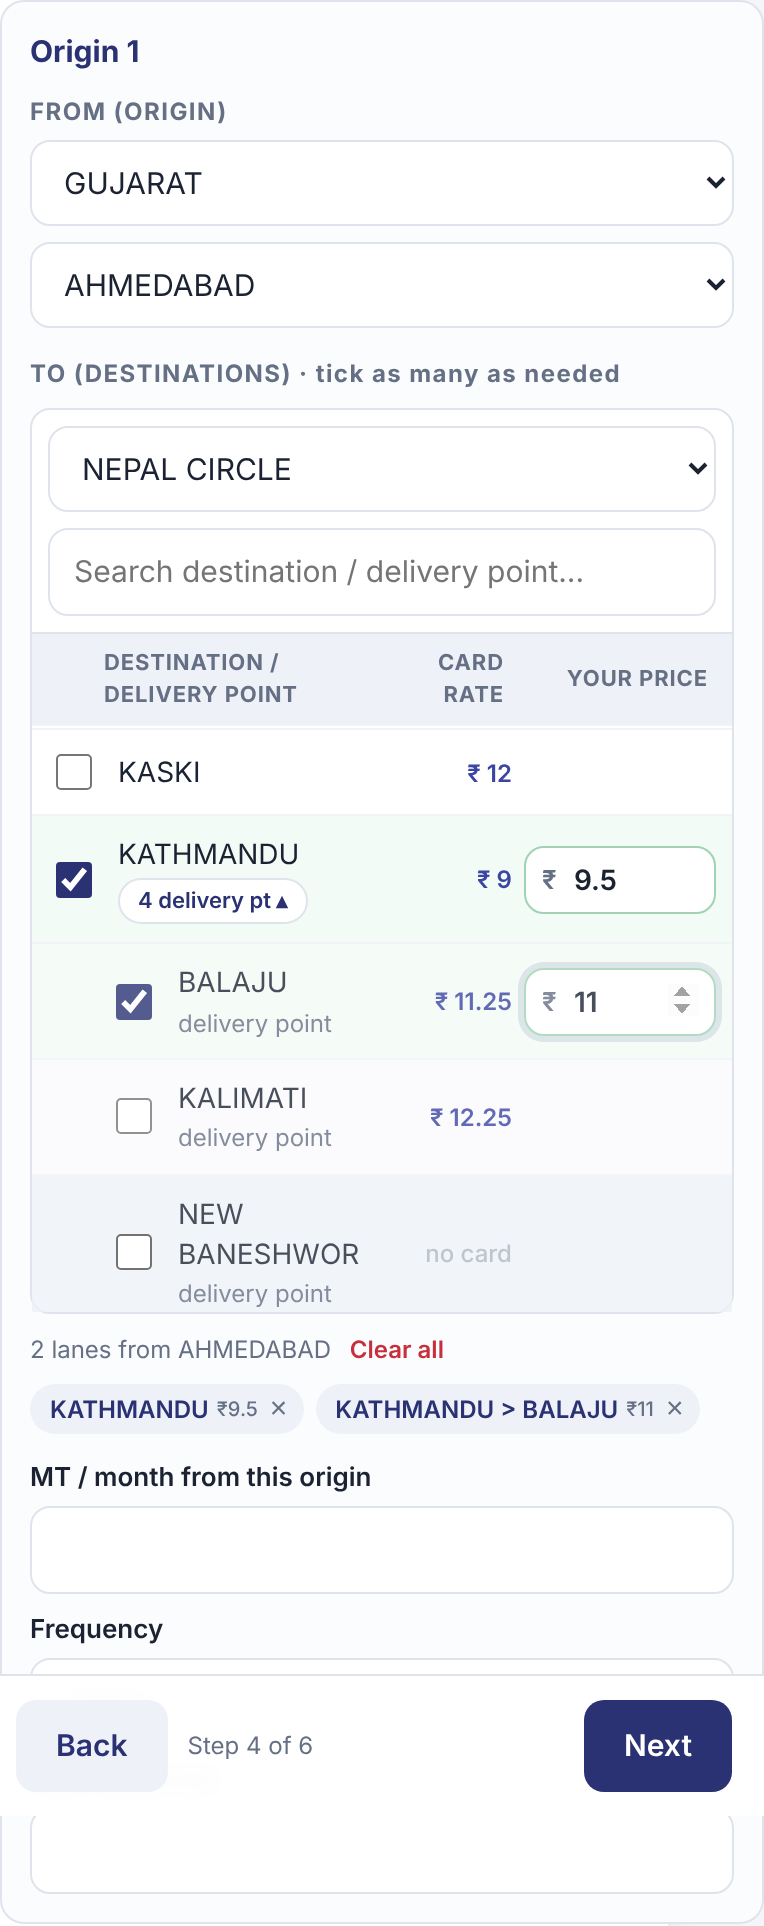
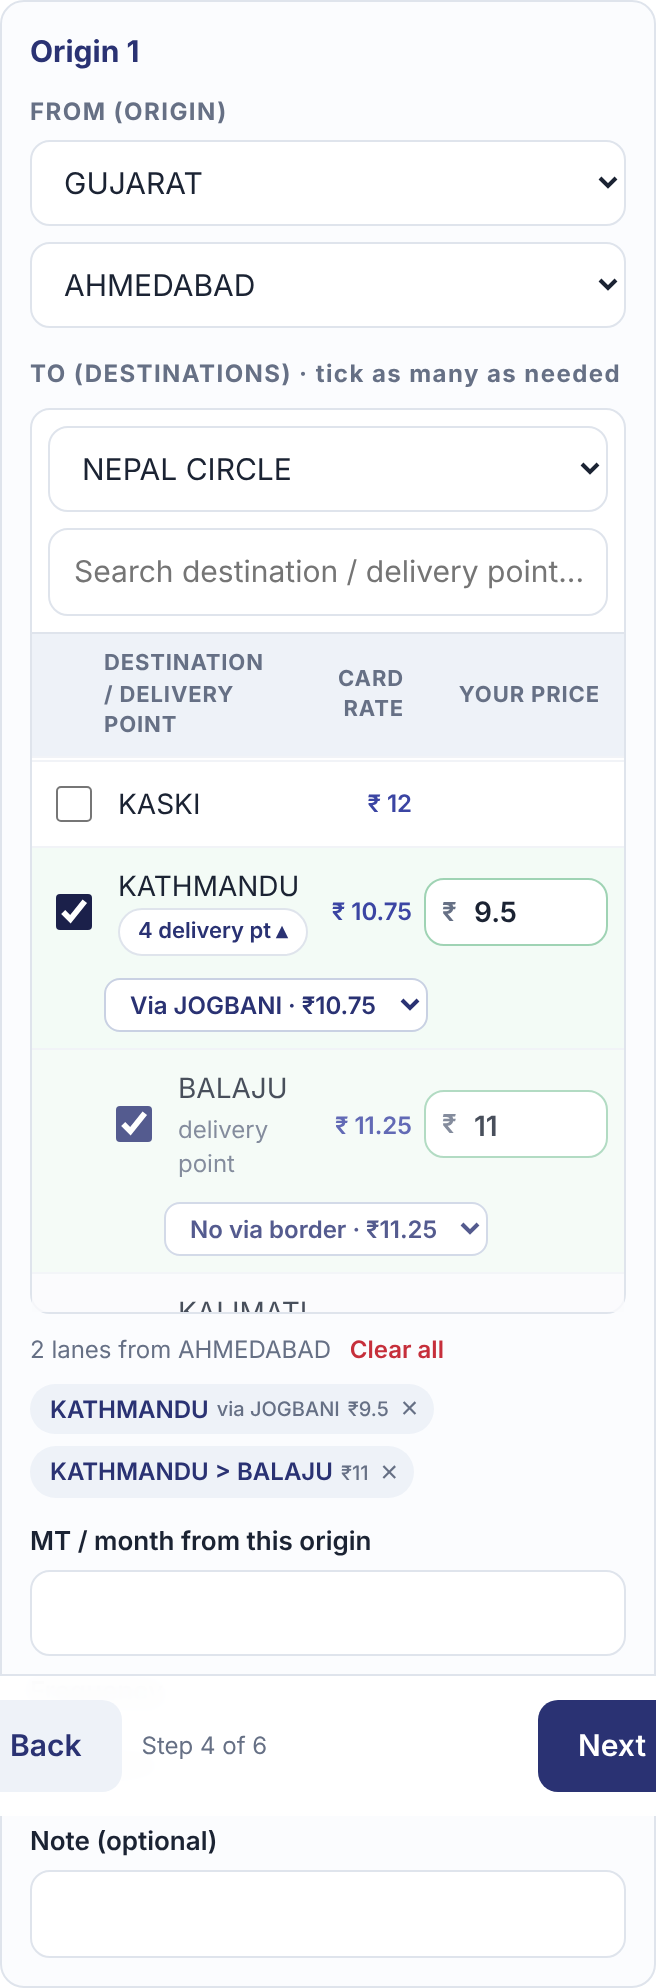
Via border in card rate lookup; mobile layout fixes
Claude-Session: https://claude.ai/code/session_0188fLwyFQDVejQyQDjEWZnv

diff --git a/customer-visit-form/Index.html b/customer-visit-form/Index.html
@@ -43,6 +43,7 @@
   .tag { display: inline-block; font-size: 11px; font-weight: 700; letter-spacing: .1em; color: var(--accent); margin-bottom: 2px; }
   .grid { display: grid; grid-template-columns: 1fr 1fr; gap: 12px 14px; }
   .full { grid-column: 1 / -1; }
+  .grid > * { min-width: 0; }
   @media (max-width: 560px) { .grid { grid-template-columns: 1fr; } .step .t { display: none; } .step.active .t { display: inline; } }
 
   label.f { display: block; font-size: 13px; font-weight: 600; margin-bottom: 5px; }
@@ -94,7 +95,7 @@
 
   .done { text-align: center; padding: 36px 20px; }
   .done .ic { width: 64px; height: 64px; border-radius: 50%; background: #e6f4ec; color: var(--ok); display: grid; place-items: center; margin: 0 auto 12px; font-size: 32px; }
-  .toast { position: fixed; left: 50%; bottom: 84px; transform: translateX(-50%); background: var(--ink); color: #fff; padding: 10px 16px; border-radius: 10px; font-size: 13px; display: none; z-index: 20; max-width: 90%; }
+  .toast { pointer-events: none; position: fixed; left: 50%; bottom: 84px; transform: translateX(-50%); background: var(--ink); color: #fff; padding: 10px 16px; border-radius: 10px; font-size: 13px; display: none; z-index: 20; max-width: 90%; }
   .hidden { display: none !important; }
 </style>
 <style>
@@ -119,6 +120,7 @@
   .opt small { white-space: nowrap; display: flex; align-items: center; gap: 6px; }
   .opt.on { background: #f3fbf6; }
   .opt.on { background: #f3fbf6; }
+  .opt label > span { min-width: 0; }
   .opt span small { display: block; white-space: normal; margin-top: 1px; }
   .opt em { font-style: normal; flex: 0 0 76px; text-align: right; font-size: 13px; font-weight: 600; color: var(--navy-2); }
   .opt em.pc { flex: 0 0 112px; }
@@ -128,9 +130,14 @@
   .opt.lh em { color: var(--muted); font-size: 11px; font-weight: 700; }
   .opt.lh:hover { background: var(--soft); }
   .rowprice { display: block; width: 112px; }
+  .opt { flex-wrap: wrap; }
+  .viarow { flex: 0 0 100%; padding: 0 0 8px 28px; margin-top: -4px; }
+  .opt.sub .viarow { padding-left: 28px; }
+  .opt select.via { display: block; width: auto; max-width: 100%; padding: 4px 8px; font-size: 12px; border-radius: 8px; border-color: #c9d1e3; color: var(--navy); font-weight: 600; }
   .opt .rowprice input { width: 100%; height: 34px; padding: 6px 8px 6px 24px; font-size: 14px; border-color: #9fd3b4; background: #fff; }
   .rowprice span { left: 9px; font-size: 13px; }
-  @media (max-width: 420px) { .opt em { flex-basis: 62px; font-size: 12px; } .opt em.pc, .rowprice { flex-basis: 96px; width: 96px; } .opt { gap: 6px; padding: 0 8px; } .opt.lh span { padding-left: 24px; } }
+  @media (max-width: 560px) { .card { padding: 18px 14px; } }
+  @media (max-width: 420px) { .opt em { flex-basis: 58px; font-size: 12px; } .opt em.pc, .rowprice { flex-basis: 92px; width: 92px; } .opt { gap: 6px; padding: 0 8px; } .opt.lh span { padding-left: 24px; } }
   .picker .bar2 { display: grid; grid-template-columns: 1fr 1fr; gap: 8px; padding: 8px; }
   @media (max-width: 560px) { .picker .bar2 { grid-template-columns: 1fr; } }
   .addstop { border: 0; background: none; color: var(--navy-2); font: inherit; font-size: 13px; font-weight: 700; cursor: pointer; padding: 6px 0; }
@@ -295,10 +302,26 @@ function addDest(i, it) {
 }
 /** Card rate: delivery point picked = origin + delivery point, else origin + destination (same as cardKey_ in WebApp.gs). */
 function cardKey(o, dest, dp) { var u = function (v) { return String(v || '').trim().toUpperCase(); }; return u(dp) ? 'P|' + u(o) + '|' + u(dp) : 'D|' + u(o) + '|' + u(dest); }
-function cardOf(i, it) {
-  var o = flows[i].origin.place; if (!o || !it.place || !M.card) return '';
-  var v = M.card[cardKey(o, it.place, it.dp)]; return v == null ? '' : v;
+/** { via: rate } for a lane ('' = no via border), or null. */
+function cardMap(i, it) {
+  var o = flows[i].origin.place; if (!o || !it.place || !M.card) return null;
+  return M.card[cardKey(o, it.place, it.dp)] || null;
 }
+/** Picked border's rate, else the rate with no border, else the only border (same order as cardRateOf_ in WebApp.gs). */
+function cardPick(c, via) {
+  if (!c) return '';
+  var v = Object.keys(c);
+  if (via && via in c) return c[via];
+  if ('' in c) return c[''];
+  return v.length === 1 ? c[v[0]] : '';
+}
+function cardText(c, via, ticked) {
+  if (!c) return '';
+  var r = cardPick(c, via); if (r !== '' && (ticked || Object.keys(c).length === 1)) return '&#8377; ' + esc(r);
+  var all = Object.keys(c).map(function (k) { return c[k]; }), lo = Math.min.apply(null, all), hi = Math.max.apply(null, all);
+  return lo === hi ? '&#8377; ' + esc(lo) : '&#8377; ' + esc(lo) + '&ndash;' + esc(hi);
+}
+function setVia(i, k, v) { flows[i].dests[k].via = v; renderList(i); renderChips(i); save(); }
 function toggleIdx(i, k) {
   var it = (LIST[i] || [])[k]; if (!it) return;
   if (hasDest(i, it)) flows[i].dests = flows[i].dests.filter(function (d) { return !sameD(d, it); });
@@ -353,16 +376,22 @@ function renderList(i) {
       : it.dp ? (it.sub ? 'delivery point' : esc(it.zone))
       : (n && p.zone && !p.q ? '<button type="button" class="more" onclick="toggleOpen(' + i + ',' + k + ')">' + n + ' delivery pt ' + (p.open && p.open[it.place] ? '&#9652;' : '&#9662;') + '</button>'
         : (p.zone ? (n ? n + ' delivery pt' : '') : esc(it.zone)));
-    var c = cardOf(i, it), card = '<em class="cr' + (c === '' ? ' na' : '') + '">' + (c === '' ? (it.place && hasO ? 'no card' : '&ndash;') : '&#8377; ' + esc(c)) + '</em>';
+    var cm = cardMap(i, it), dk = on ? destIdx(i, it) : -1, via = on ? flows[i].dests[dk].via || '' : '';
+    var c = cardText(cm, via, on), card = '<em class="cr' + (c === '' ? ' na' : '') + '">' + (c === '' ? (it.place && hasO ? 'no card' : '&ndash;') : c) + '</em>';
+    var vias = cm ? Object.keys(cm).filter(function (v) { return v; }).sort() : [];
+    var viaRow = '';
+    if (on && vias.length && (vias.length > 1 || '' in cm)) {   // card rate changes with the border: pick it here
+      viaRow = '<div class="viarow"><select class="via" onchange="setVia(' + i + ',' + dk + ',this.value)"><option value="">' + ('' in cm ? 'No via border &middot; &#8377;' + esc(cm['']) : 'Via border?') + '</option>' +
+        vias.map(function (v) { return '<option value="' + esc(v) + '"' + (v === via ? ' selected' : '') + '>Via ' + esc(v) + ' &middot; &#8377;' + esc(cm[v]) + '</option>'; }).join('') + '</select></div>';
+    } else if (on && vias.length === 1) meta += '<small>via ' + esc(vias[0]) + '</small>';
     var price = '<em class="pc">';
     if (on) {
-      var dk = destIdx(i, it);
       price += '<span class="pre rowprice"><span>&#8377;</span><input type="number" inputmode="decimal" min="0" step="any" placeholder="Price" data-pk="' + i + '-' + dk +
         '" value="' + esc(flows[i].dests[dk].price || '') + '" oninput="setPrice(' + i + ',' + dk + ',this.value)"></span>';
     }
     price += '</em>';
     return '<div class="opt' + (on ? ' on' : '') + (it.place ? '' : ' zone') + (it.sub ? ' sub' : '') + '"><label><input type="checkbox"' + (on ? ' checked' : '') +
-      ' onchange="toggleIdx(' + i + ',' + k + ')"><span>' + label + (meta ? '<small>' + meta + '</small>' : '') + '</span></label>' + card + price + '</div>';
+      ' onchange="toggleIdx(' + i + ',' + k + ')"><span>' + label + (meta ? '<small>' + meta + '</small>' : '') + '</span></label>' + card + price + viaRow + '</div>';
   }).join('') : '<div class="opt"><span class="hint" style="margin:0">No match</span></div>';
 }
 /** Compact list of what is ticked (price is typed in the row above). */
@@ -371,7 +400,7 @@ function renderChips(i) {
   var ds = flows[i].dests;
   el.innerHTML = ds.length ? '<div class="cnt">' + ds.length + ' lane' + (ds.length > 1 ? 's' : '') + ' from ' + esc(originLabel(i)) + ' <button class="clear" onclick="clearDests(' + i + ')">Clear all</button></div>' +
     '<div class="chips">' + ds.map(function (d, k) {
-      return '<span class="chip">' + esc(placeName(d)) + (d.price ? ' <small>&#8377;' + esc(d.price) + '</small>' : '') +
+      return '<span class="chip">' + esc(placeName(d)) + (d.via ? ' <small>via ' + esc(d.via) + '</small>' : '') + (d.price ? ' <small>&#8377;' + esc(d.price) + '</small>' : '') +
         '<button title="Remove" onclick="removeChip(' + i + ',' + k + ')">&times;</button></span>';
     }).join('') + '</div>' : '';
 }

diff --git a/customer-visit-form/Approve.html b/customer-visit-form/Approve.html
@@ -94,7 +94,7 @@
 
   .done { text-align: center; padding: 36px 20px; }
   .done .ic { width: 64px; height: 64px; border-radius: 50%; background: #e6f4ec; color: var(--ok); display: grid; place-items: center; margin: 0 auto 12px; font-size: 32px; }
-  .toast { position: fixed; left: 50%; bottom: 84px; transform: translateX(-50%); background: var(--ink); color: #fff; padding: 10px 16px; border-radius: 10px; font-size: 13px; display: none; z-index: 20; max-width: 90%; }
+  .toast { pointer-events: none; position: fixed; left: 50%; bottom: 84px; transform: translateX(-50%); background: var(--ink); color: #fff; padding: 10px 16px; border-radius: 10px; font-size: 13px; display: none; z-index: 20; max-width: 90%; }
   .hidden { display: none !important; }
 </style>
 
@@ -210,7 +210,7 @@ function render() {
     B.lanes.map(function (l, k) {
       var d = DEC[k];
       return '<tr class="' + (d === 'APPROVED' ? 'ya' : d === 'REJECTED' ? 'yr' : '') + '" id="lr' + k + '"><td><b>' + esc(l.o) + ' &rarr; ' + esc(l.d) + (l.dp ? ' &rsaquo; ' + esc(l.dp) : '') + '</b>' +
-        '<small>' + esc(l.dz) + (l.mt ? ' &middot; ' + esc(l.mt) + ' MT/mo' : '') + '</small></td>' +
+        '<small>' + esc(l.dz) + (l.via ? ' &middot; via ' + esc(l.via) : '') + (l.mt ? ' &middot; ' + esc(l.mt) + ' MT/mo' : '') + '</small></td>' +
         '<td class="n" data-l="Card rate">' + money(l.card) + '</td><td class="n sg" data-l="Field rep">' + money(l.suggested) + '</td>' +
         (hasOther ? '<td class="n" data-l="' + esc(otherShort) + '">' + (l.otherDec ? '<span class="dot ' + esc(l.otherDec) + '"></span>' : '') + money(l.otherRate) + '</td>' : '') +
         '<td class="n ip" data-l="Approved price"><div class="pre lr-i"><span>&#8377;</span><input class="lrate" data-k="' + k + '" type="number" inputmode="decimal" min="0" step="any" placeholder="Price" value="' + esc(l.rate) + '"></div></td>' +

diff --git a/customer-visit-form/Admin.html b/customer-visit-form/Admin.html
@@ -94,7 +94,7 @@
 
   .done { text-align: center; padding: 36px 20px; }
   .done .ic { width: 64px; height: 64px; border-radius: 50%; background: #e6f4ec; color: var(--ok); display: grid; place-items: center; margin: 0 auto 12px; font-size: 32px; }
-  .toast { position: fixed; left: 50%; bottom: 84px; transform: translateX(-50%); background: var(--ink); color: #fff; padding: 10px 16px; border-radius: 10px; font-size: 13px; display: none; z-index: 20; max-width: 90%; }
+  .toast { pointer-events: none; position: fixed; left: 50%; bottom: 84px; transform: translateX(-50%); background: var(--ink); color: #fff; padding: 10px 16px; border-radius: 10px; font-size: 13px; display: none; z-index: 20; max-width: 90%; }
   .hidden { display: none !important; }
 </style>
 <style>

diff --git a/customer-visit-form/SETUP_STEPS.md b/customer-visit-form/SETUP_STEPS.md
@@ -70,7 +70,7 @@ Code badalne ke baad hamesha: **Deploy > Manage deployments > pencil > Version: 
 
 ## Kya hota hai
 1. Field rep form bharta hai (zones / origin / destination / delivery point GR PNL data master se, unique). List table jaisi hai: **Destination / delivery point | Card rate | Your price**. Har destination aur har delivery point alag se tick / untick hota hai (har ek apni lane). Tick karte hi usi line me price box aata hai.
-2. **Card rate** GR PNL master ke CARD RATE column se: delivery point chuna = origin + delivery point, warna origin + destination. Ek lane ke kai GR hon to sabse naya GR DT wala rate, barabar ho to zyada wala. Origin "Any branch in zone" ho to card rate "–".
+2. **Card rate** GR PNL master ke CARD RATE column se: delivery point chuna = origin + delivery point, warna origin + destination. Ek lane ke kai GR hon to sabse naya GR DT wala rate, barabar ho to zyada wala. Origin "Any branch in zone" ho to card rate "–". **Via border**: master me VIA BORDER column ho aur ek lane ke rate border ke hisaab se alag hon, to tick ki hui line ke neeche "Via ..." dropdown aata hai (har border ka rate saath me). Na chuno to bina border wala rate, warna akela border ho to wahi. Chuna hua border `Customer_Lanes` > "Via Border" me save hota hai.
 3. **Costing Head** aur zone ke **Regional Manager** ko alag-alag mail jata hai: upar "Approve / Reject & enter rate" button, neeche lanes (card rate + field rep price ke saath) aur poori visit details.
 4. Approval page pe har lane ki row: Card rate | Field rep | doosre approver ka rate | Approved price | ✓ / ✗. Upar "Approve all" / "Reject all" aur "same price for all". Har lane ka decision dena zaroori hai.
 5. Sheet me save hota hai:
@@ -81,7 +81,7 @@ Code badalne ke baad hamesha: **Deploy > Manage deployments > pencil > Version: 
 
 ## Zones & places (GR PNL data master)
 Settings me `GR_MASTER_SHEET` (default: GR PNL mirror sheet) aur `GR_MASTER_TAB` (default `DASHBOARD_MASTER`).
-Columns jo padhe jaate hain: Origin Zone, Origin, Dest Zone, Destname, Delivery Point, Card Rate, GR DT (naam me space/underscore/case
+Columns jo padhe jaate hain: Origin Zone, Origin, Dest Zone, Destname, Delivery Point, Via Border, Card Rate, GR DT (naam me space/underscore/case
 se farak nahi padta). "UNSPECIFIED" values chhod di jaati hain. Har 10 minute me refresh, ya Admin > Master data >
 Reload master now. Agar padh nahi paya to Admin me error dikhega aur purani lane file copy use hogi.
 
